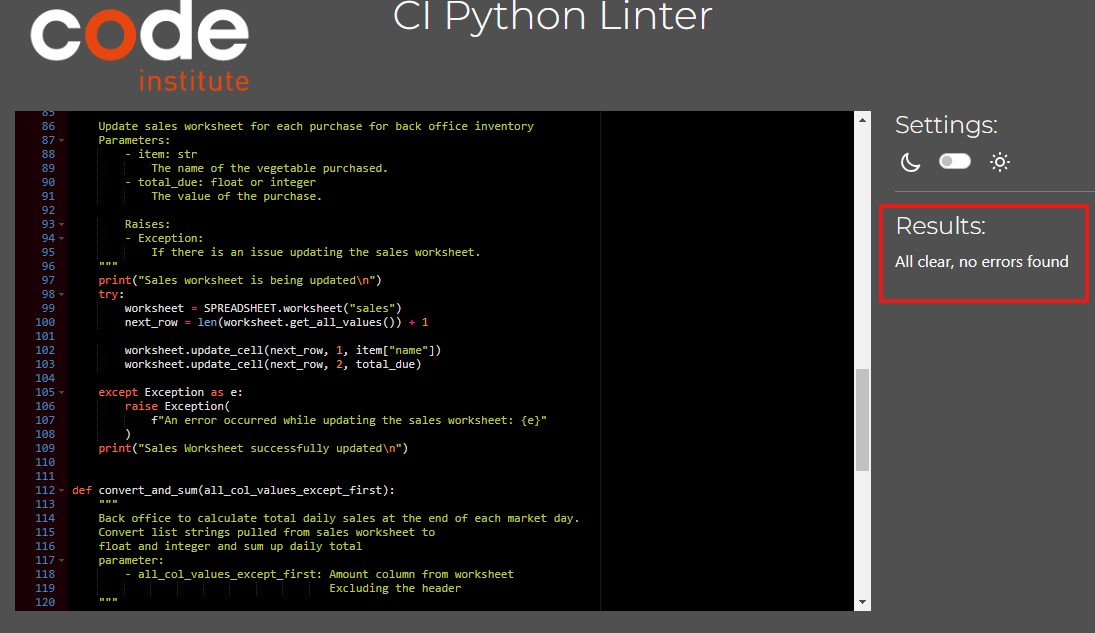
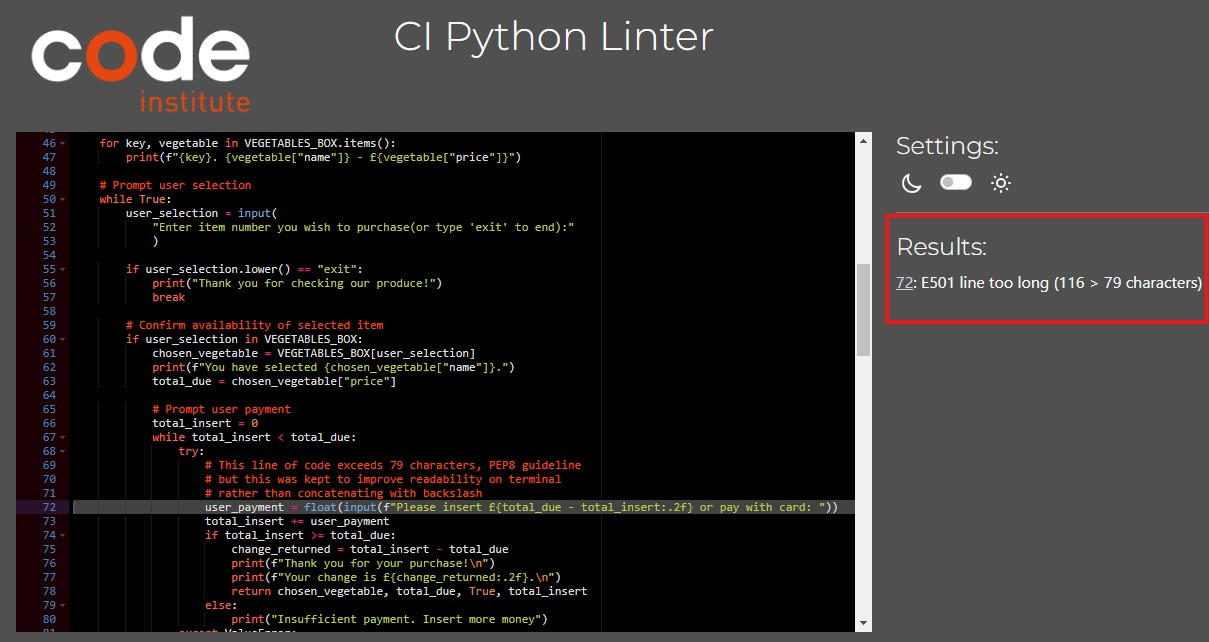
Removed code concatenating backslash container to improve readability and update README.md

Changed region(s): [[0.0, 0.0, 1.0, 0.9905], [0.3105, 0.0, 0.6521, 0.09]]

diff --git a/run.py b/run.py
@@ -33,14 +33,18 @@ VEGETABLES_BOX = {
 
 def execute_vegetable_sales():
     """
-    Execute vegetable sales
+    Execute vegetable sales process.
+
+    Displays available produce and prices, prompts the user for
+    selection, and handles the payment process. It continues until the user
+    decides to exit.
     """
     # Display available produce and prices
     print("Welcome to the Produce Sales!")
     print("Please select a Produce:")
 
     for key, vegetable in VEGETABLES_BOX.items():
-        print(f"{key}. {vegetable['name']} - £{vegetable['price']}")
+        print(f"{key}. {vegetable["name"]} - £{vegetable["price"]}")
 
     # Prompt user selection
     while True:
@@ -48,22 +52,24 @@ def execute_vegetable_sales():
             "Enter item number you wish to purchase(or type 'exit' to end):"
             )
 
-        if user_selection.lower() == 'exit':
+        if user_selection.lower() == "exit":
             print("Thank you for checking our produce!")
             break
 
         # Confirm availability of selected item
         if user_selection in VEGETABLES_BOX:
             chosen_vegetable = VEGETABLES_BOX[user_selection]
-            print(f"You have selected {chosen_vegetable['name']}.")
-            total_due = chosen_vegetable['price']
+            print(f"You have selected {chosen_vegetable["name"]}.")
+            total_due = chosen_vegetable["price"]
 
             # Prompt user payment
             total_insert = 0
             while total_insert < total_due:
                 try:
-                    user_payment = float(input(f"Please insert\
-                         £{total_due - total_insert:.2f} or pay with card "))
+                    # This line of code exceeds 79 characters, PEP8 guideline
+                    # but this was kept to improve readability on terminal
+                    # rather than concatenating with backslash
+                    user_payment = float(input(f"Please insert £{total_due - total_insert:.2f} or pay with card: "))
                     total_insert += user_payment
                     if total_insert >= total_due:
                         change_returned = total_insert - total_due
@@ -83,12 +89,15 @@ def execute_vegetable_sales():
 
 def updateworksheet_sales(item: "vegetable", total_due: float):
     """
-    Update sales worksheet for each purchase for back office inventory
+    Update sales worksheet for each purchase for back office inventory.
+
+    Adds a new row to the sales worksheet with purchased
+    vegetable and the total amount of purchase.
+
     Parameters:
         - item: str
-            The name of the vegetable purchased.
-        - total_due: float or integer
-            The value of the purchase.
+            Information about the vegetable purchased.
+        - total_due(float): The value of the purchase.
 
         Raises:
         - Exception:
@@ -111,12 +120,15 @@ def updateworksheet_sales(item: "vegetable", total_due: float):
 
 def convert_and_sum(all_col_values_except_first):
     """
-    Back office to calculate total daily sales at the end of each market day.
+    Calculate total sales as purchases are being made,
+    useful for end of each market day.
+
     Convert list strings pulled from sales worksheet to
-    float and integer and sum up daily total
+    float and integer and sum up total sales
+
     parameter:
         - all_col_values_except_first: Amount column from worksheet
-                                       Excluding the header
+                                       excluding the header
     """
 
     for value in all_col_values_except_first:
@@ -131,15 +143,17 @@ def convert_and_sum(all_col_values_except_first):
     float_values = [float(value) for value in all_col_values_except_first]
 
     total_sum = sum(float_values)
-    print(f"Total daily Sales: £{total_sum}")
+    print(f"Total daily Sales: £{total_sum:.2f}")
 
     return total_sum
 
 
 def calculate_daily_sales():
     """
-    Back office to calculate daily sales at the end of each market day.
-    Pull list of strings from sales worksheet
+    Retrieve daily sales data from the sales worksheet.
+
+    Pulls the list of sales amounts from the sales worksheet,
+    excluding the header row.
     """
     worksheet = SPREADSHEET.worksheet("sales")
     colvalues = worksheet.col_values(2)
@@ -151,6 +165,9 @@ def calculate_daily_sales():
 def main():
     """
     Run program functions
+
+    Coordinates the execution of the vegetable sales process,
+    updates the sales worksheet, and calculates the daily sales total.
     """
     vegetable, total_due, should_rec, total_insert = execute_vegetable_sales()
     if should_rec:

diff --git a/README.md b/README.md
@@ -63,7 +63,7 @@ Google sheet containing one sales worksheet  was used were vegetables names are 
 
 
 ## Validation Testing
-Manually tested this project by passing the code through a [PEP8 Python Linter](https://pep8ci.herokuapp.com/) and confirmed there are no Warning or Error.
+Manually tested this project by passing the code through a [PEP8 Python Linter](https://pep8ci.herokuapp.com/) and confirmed there are no Warning or Error. However a line of code exceeds 79 characters PEP8 guideline but this was kept to improve readability on terminal rather than concatenating with backslash
 
 ![PEP8 manual test](./assets/readme-images/manual-test.jpg)
 
